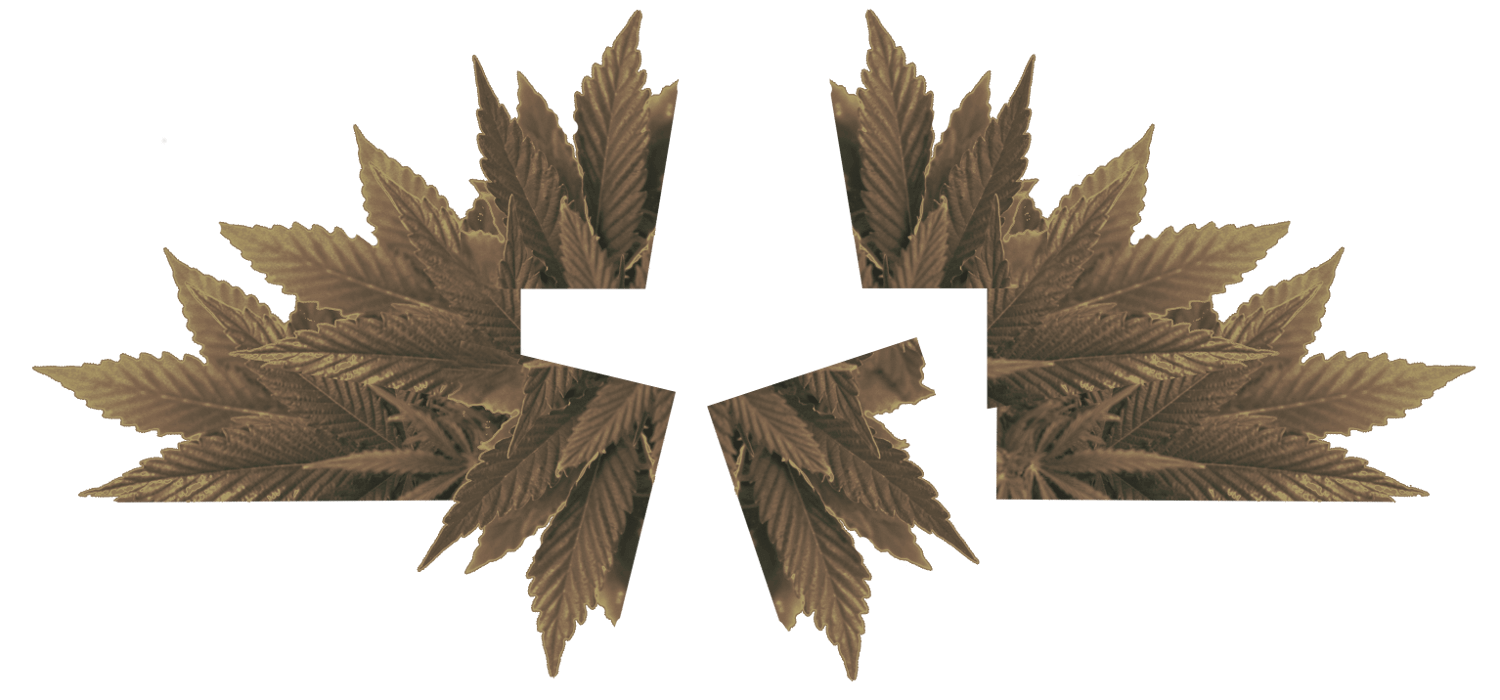
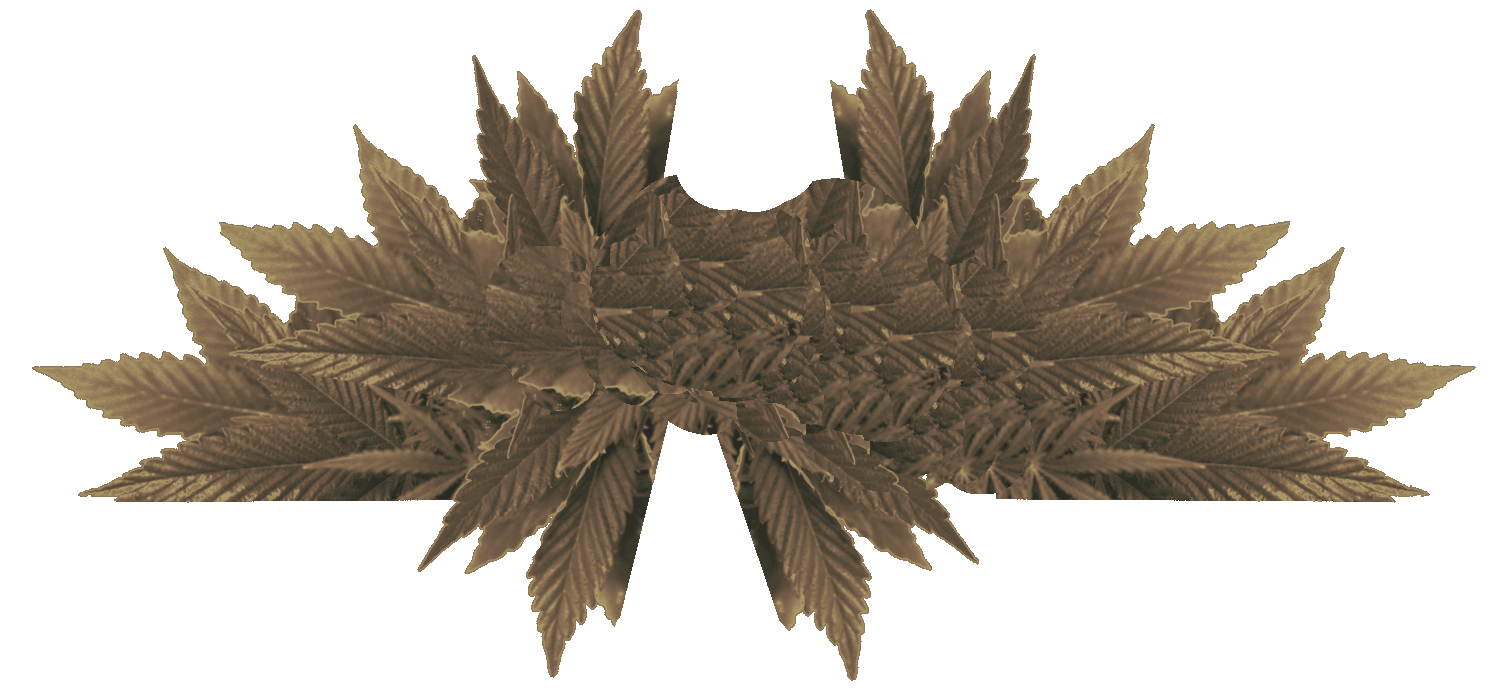
fix three flower animation

Changed region(s): [[0.3067, 0.24, 0.7053, 0.72]]

diff --git a/app/assets/javascripts/script.js b/app/assets/javascripts/script.js
@@ -78,7 +78,6 @@ $(document).ready(function(){
       y: '-=5',
       scale:1.2
     });
-    TweenMax.to($('.left-flower-img'), 0.3, { opacity:1 });
     TweenMax.to($('.left-flower-fill'), 0.3, { opacity:0 });
     TweenMax.to($('.left-flower-top'), 0.3, {
       stroke: '#4d173c',
@@ -99,8 +98,7 @@ $(document).ready(function(){
       strokeWidth: 15
     });
     TweenMax.to($('.left-flower-bottom'), 0.3, { stroke: '#fff' });
-    TweenMax.to($('.left-flower-img'), 0.3, { opacity:0 });
-    TweenMax.to($('.left-flower-fill'), 0, { opacity:1 });
+    TweenMax.to($('.left-flower-fill'), 0, { opacity:0.6 });
   };
 
   $("#middle-flower").hover(mid_over, mid_out);
@@ -111,7 +109,6 @@ $(document).ready(function(){
       x: '+=50',
       scale:1.2
     });
-    TweenMax.to($('.middle-flower-img'), 0.3, { opacity:1 });
     TweenMax.to($('.middle-flower-fill'), 0.3, { opacity:0 });
     TweenMax.to($('.middle-flower-top'), 0.3, {
       stroke: '#4d173c',
@@ -131,8 +128,7 @@ $(document).ready(function(){
       strokeWidth: 15
     });
     TweenMax.to($('.middle-flower-bottom'), 0.3, { stroke: '#fff' });
-    TweenMax.to($('.middle-flower-img'), 0.3, { opacity:0 });
-    TweenMax.to($('.middle-flower-fill'), 0, { opacity:1 });
+    TweenMax.to($('.middle-flower-fill'), 0, { opacity:0.4 });
   };
 
   $("#right-flower").hover(right_over, right_out);
@@ -144,7 +140,6 @@ $(document).ready(function(){
       y: '-=50',
       scale:1.2
     });
-    TweenMax.to($('.right-flower-img'), 0.3, { opacity:1 });
     TweenMax.to($('.right-flower-fill'), 0.3, { opacity:0 });
     TweenMax.to($('.right-flower-top'), 0.3, {
       stroke: '#4d173c',
@@ -165,8 +160,7 @@ $(document).ready(function(){
       strokeWidth: 15
     });
     TweenMax.to($('.right-flower-bottom'), 0.3, { stroke: '#fff' });
-    TweenMax.to($('.right-flower-img'), 0.3, { opacity:0 });
-    TweenMax.to($('.right-flower-fill'), 0, { opacity:1 });
+    TweenMax.to($('.right-flower-fill'), 0, { opacity:0.25 });
   };
 
 
